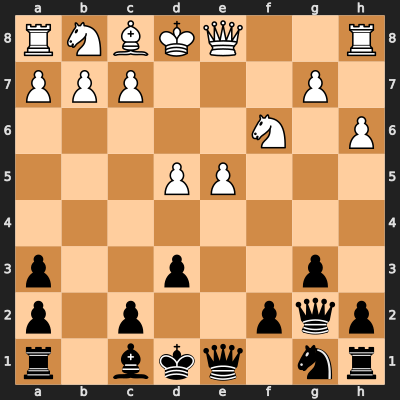
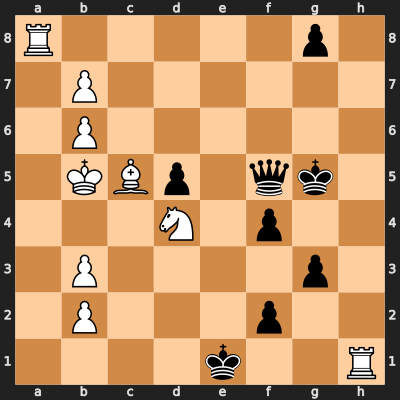
improvements to clarity of predict_board.py

diff --git a/yolo_training/yolo_training.py b/yolo_training/yolo_training.py
@@ -1,0 +1,138 @@
+import torch
+import os
+from ultralytics import YOLO
+from sklearn.metrics import confusion_matrix, ConfusionMatrixDisplay
+import numpy as np
+from PIL import Image
+import matplotlib.pyplot as plt
+import cv2
+cuda_available = torch.cuda.is_available()
+
+if cuda_available:
+
+    print("CUDA is available")
+
+else:
+
+    message = """
+        WARNING: In order to train the model, it is advisable to use GPU.
+        Change runtime type to GPU from:
+        menu Runtime -> Change runtime type -> Hardware accelerator -> GPU.
+        And run all the cells again.
+    """
+    print(message)
+
+
+def serialized_model_file(
+    checkpoint="best",
+    use_run="train",
+):
+    """
+        Returns the serialized file path.
+    """
+    return f"runs/detect/{use_run}/weights/{checkpoint}.pt"
+
+
+def train(
+    data,
+    use_run="train",
+    fallback="yolo11n.pt",
+    epochs=100,
+    augment=True,
+    patience=50
+):
+
+    cuda_available = torch.cuda.is_available()
+    if not cuda_available:
+        print("CUDA is not available, skipping train.")
+        return
+    current_directory = os.getcwd()
+
+    # Print the current working directory
+    print(f"The current working directory is: {current_directory}")
+
+    model_file = serialized_model_file("last", use_run)
+    print(model_file)
+    if os.path.exists(model_file):
+        resume_training = True
+        use_model = model_file
+    else:
+        resume_training = False
+        use_model = fallback
+
+    model = YOLO(
+        use_model
+    )
+
+    model.train(
+        data=data,
+        resume=resume_training,
+        epochs=epochs,
+        optimizer="AdamW",
+        lr0=0.0001,
+        imgsz=320,
+        batch=64,
+        augment=augment,
+        patience=patience
+    )
+    return model
+
+
+# model = train(data="content/datasets/YOLO_07_11/data.yaml", epochs=300, use_run=None)
+
+
+def test_and_confusion_matrix(model_path, data_yaml):
+    # Load the trained model
+    # Run prediction on the test set
+    model = YOLO(model_path)
+
+    model.val(data=data_yaml, split='test', save_json=True)
+
+
+yaml_path = "content/datasets/YOLO_07_11/data.yaml"
+model_path = "../models/runs/detect/train4/weights/best.pt"
+# test_and_confusion_matrix(model_path, yaml_path)
+
+# Load a random image (replace with your own image path if needed)
+example_image_path = "content/datasets/YOLO_07_11/images/test/003847.png"
+image = Image.open(example_image_path)
+
+# Load the model
+model = YOLO(model_path)
+
+# Run inference
+results = model(example_image_path)
+
+# Get detections
+boxes = results[0].boxes
+class_names = model.names
+
+# Create a separate image for each class detected
+image_np = np.array(image)
+for class_id in np.unique(boxes.cls.cpu().numpy()):
+    mask = boxes.cls.cpu().numpy() == class_id
+    class_boxes = boxes[mask]
+    img_copy = image_np.copy()
+    for box in class_boxes:
+        xyxy = box.xyxy.cpu().numpy().astype(int)[0]
+        # Draw rectangle
+        img_copy = cv2.rectangle(
+            img_copy,
+            (xyxy[0], xyxy[1]),
+            (xyxy[2], xyxy[3]),
+            (0, 255, 0),
+            2
+        )
+        # Put class label
+        cv2.putText(
+            img_copy,
+            class_names[int(class_id)],
+            (xyxy[0], xyxy[1] - 10),
+            cv2.FONT_HERSHEY_SIMPLEX,
+            0.9,
+            (36,255,12),
+            2
+        )
+    output_path = f"003847_detected_class_{class_names[int(class_id)]}.png"
+    Image.fromarray(img_copy).save(output_path)
+    print(f"Detection image for class '{class_names[int(class_id)]}' saved to {output_path}")

diff --git a/combined_model/predict_board.py b/combined_model/predict_board.py
@@ -64,7 +64,7 @@ def convert_yolo_to_bbox_dict(yolo_result, class_names):
 # ------------------ Main Logic ------------------
 if __name__ == "__main__":
     # Input
-    example_image_path = "samples/000069.png"
+    example_image_path = "samples/000571.png"
     model_path = "models/train4/weights/best.pt"
     model = YOLO(model_path)
 
@@ -109,25 +109,35 @@ if __name__ == "__main__":
     svg_data = chess.svg.board(board=board, size=400)
     svg2png(bytestring=svg_data.encode('utf-8'), write_to="board.png")
 
-    for piece, bboxes in piece_bboxes.items():
-        for bbox in bboxes:
-            x, y, w, h = bbox
-            cx = x + (2 * w) / 4.0  # same as piece_to_square
-            cy = y + (3.99 * h) / 4.0
-            src_pt = np.array([[[cx, cy]]], dtype=np.float32)
-            dst_pt = cv2.perspectiveTransform(src_pt, M)[0, 0]
-            u, v = dst_pt
-            cv2.circle(debug_image, (int(u), int(v)), 3, (0, 255, 0), -1)
+    corner_img = image.copy()
+    if predicted_pts is not None and len(predicted_pts) == 4:
+        for i, pt in enumerate(predicted_pts):
+            x, y = int(pt[0]), int(pt[1])
+            cv2.circle(corner_img, (x, y), 8, (0, 0, 255), -1)  # red dots
+            cv2.putText(corner_img, f"C{i+1}", (x + 5, y - 5),
+                        cv2.FONT_HERSHEY_SIMPLEX, 0.6, (0, 0, 255), 2)
 
-    cv2.imwrite("output.png", debug_image)
+    # --- Draw YOLO bounding boxes with YOLO labels ---
+    for box in results[0].boxes:
+        cls_id = int(box.cls.item())
+        label = class_names[cls_id]  # from YOLO model
+        x_c, y_c, w, h = box.xywh[0].cpu().numpy()
+        x1, y1 = int(x_c - w / 2), int(y_c - h / 2)
+        x2, y2 = int(x_c + w / 2), int(y_c + h / 2)
+
+        cv2.rectangle(corner_img, (x1, y1), (x2, y2), (0, 255, 0), 2)
+        cv2.putText(corner_img, label, (x1, y1 - 5),
+                    cv2.FONT_HERSHEY_SIMPLEX, 0.6, (0, 255, 0), 2)
+
+    cv2.imwrite("detections_and_corners.png", corner_img)
     
     # Load images for display
-    input_img = cv2.cvtColor(cv2.imread(example_image_path), cv2.COLOR_BGR2RGB)
+    # input_img = cv2.cvtColor(cv2.imread(example_image_path), cv2.COLOR_BGR2RGB)
     board_img = np.array(Image.open("board.png"))
 
     # Display side-by-side
     fig, axes = plt.subplots(1, 2, figsize=(10, 5))
-    axes[0].imshow(input_img)
+    axes[0].imshow(corner_img)
     axes[0].set_title("Input Image")
     axes[0].axis("off")
 
